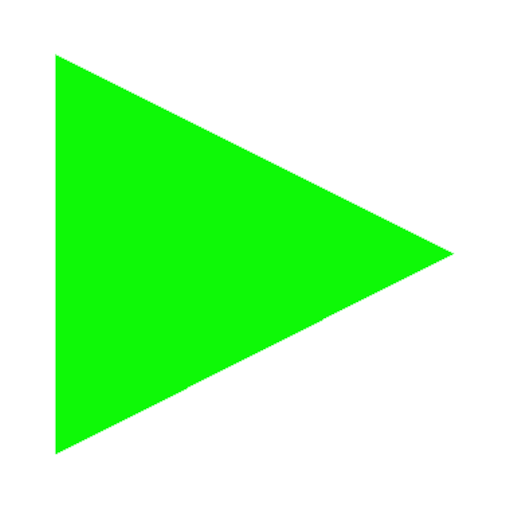
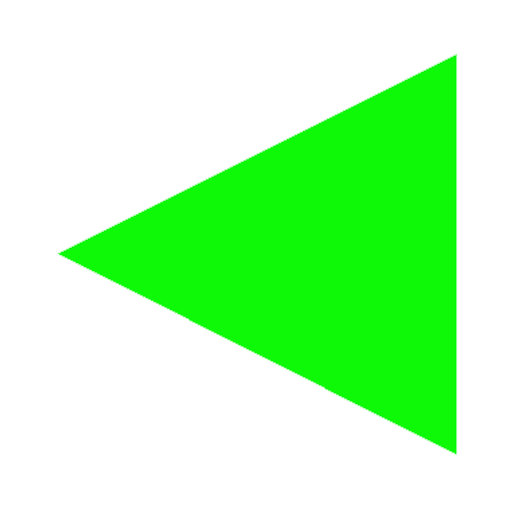
triangles alpha

diff --git a/7_triangles/Frame.cpp b/7_triangles/Frame.cpp
@@ -1,45 +1,73 @@
-#include <iostream>
+#include <cassert>
 #include <gdkmm/pixbuf.h>
 #include <gtkmm/image.h>
 #include "Frame.h"
 
-Frame::Frame() {
+constexpr size_t DEF_SIZE = 96;
+
+Frame::Frame() : triangles(this) {
 
 	set_border_width(10);
 	set_default_size(300, 50);
 	set_title("Triangles");
 
 	Frame::add(box);
-	const size_t DEF_SIZE = 96;
-	auto right_tr = Gdk::Pixbuf::create_from_resource("/res/right.png");
-	right_tr = right_tr->scale_simple(DEF_SIZE, DEF_SIZE, Gdk::INTERP_BILINEAR);
-	auto left_tr = Gdk::Pixbuf::create_from_resource("/res/left.png");
-	left_tr = left_tr->scale_simple(DEF_SIZE, DEF_SIZE, Gdk::INTERP_BILINEAR);
-	auto blank = Gdk::Pixbuf::create_from_resource("/res/blank.svg");
+	left = Gdk::Pixbuf::create_from_resource("/res/left.png");
+	right = Gdk::Pixbuf::create_from_resource("/res/right.png");
+	blank = Gdk::Pixbuf::create_from_resource("/res/blank.svg");
+	left = left->scale_simple(DEF_SIZE, DEF_SIZE, Gdk::INTERP_BILINEAR);
+	right = right->scale_simple(DEF_SIZE, DEF_SIZE, Gdk::INTERP_BILINEAR);
 	blank = blank->scale_simple(DEF_SIZE, DEF_SIZE, Gdk::INTERP_BILINEAR);
 
-	size_t j = 0;
-	for (size_t i = 0; i < TRIANGLES_COUNT; i++, j++) {
-		tr_img[j].set(right_tr);
-		buttons[i].set_icon_widget(tr_img[j]);
+	size_t count = triangles.getCellsCount();
+	buttons.resize(count);
+	images.resize(count);
+	for (size_t i = 0; i < count; i++) {
+		buttons[i].set_icon_widget(images[i]);
 		box.pack_start(buttons[i], Gtk::PACK_SHRINK);
+		buttons[i].signal_clicked().connect(sigc::bind<size_t>(
+				sigc::mem_fun(*this, &Frame::onButtonClick), i));
 	}
 
-	size_t k = 0;
-	for (size_t i = TRIANGLES_COUNT; i < COUNT - TRIANGLES_COUNT; i++, k++) {
-		blank_img[k].set(blank);
-		buttons[i].set_icon_widget(blank_img[k]);
-		box.pack_start(buttons[i], Gtk::PACK_SHRINK);
-	}
-
-	for (size_t i = COUNT - TRIANGLES_COUNT; i < COUNT; i++, j++) {
-		tr_img[j].set(left_tr);
-		buttons[i].set_icon_widget(tr_img[j]);
-		box.pack_start(buttons[i], Gtk::PACK_SHRINK);
-	}
+	triangles.reset();
 
 	box.show();
 	box.show_all_children();
 }
 
-Frame::~Frame() { }
+void Frame::onButtonClick(size_t index) {
+
+	assert (index < buttons.size());
+	triangles.onCellClick(index);
+}
+
+void Frame::placeLeftTriangle(size_t index) {
+
+	assert (index < buttons.size());
+	images[index].set(left);
+}
+
+void Frame::placeBlank(size_t index) {
+
+	assert (index < buttons.size());
+	images[index].set(blank);
+}
+
+void Frame::placeRightTriangle(size_t index) {
+
+	assert (index < buttons.size());
+	images[index].set(right);
+}
+
+void Frame::swapCells(size_t l, size_t r) {
+
+	assert (l < buttons.size());
+	assert (r < buttons.size());
+
+	auto lpix = images[l].get_pixbuf();
+	auto rpix = images[r].get_pixbuf();
+	images[l].set(rpix);
+	images[r].set(lpix);
+}
+
+Frame::~Frame() = default;

diff --git a/7_triangles/Triangles.cpp b/7_triangles/Triangles.cpp
@@ -1,0 +1,60 @@
+#include <cassert>
+#include <algorithm>
+#include "Triangles.h"
+#include "ICellsView.h"
+
+Triangles::Triangles(ICellsView *view_) : view(view_) {
+
+	assert (view);
+	assert (TOTAL_SIZE > TRIANGLES_COUNT);
+
+	std::fill_n(cells, TRIANGLES_COUNT, LEFT);
+	std::fill_n(cells + TRIANGLES_COUNT, TOTAL_SIZE - 2 * TRIANGLES_COUNT, BLANK);
+	std::fill_n(cells + TOTAL_SIZE - TRIANGLES_COUNT, TRIANGLES_COUNT, RIGHT);
+}
+
+void Triangles::reset() {
+
+	for (size_t i = 0; i < TOTAL_SIZE; i++) {
+		switch (cells[i]) {
+			case LEFT:
+				view->placeLeftTriangle(i);
+				break;
+
+			case BLANK:
+				view->placeBlank(i);
+				break;
+
+			case RIGHT:
+				view->placeRightTriangle(i);
+		}
+	}
+}
+
+void Triangles::onCellClick(size_t index) {
+
+	assert (index < TOTAL_SIZE);
+	if (cells[index] == BLANK) return;
+
+	if (cells[index] == LEFT) {
+		if (index + 1 < TOTAL_SIZE && cells[index + 1] == BLANK)
+			swapCells(index, index + 1);
+		else
+			if (index + 2 < TOTAL_SIZE && cells[index + 1] == RIGHT && cells[index + 2] == BLANK)
+				swapCells(index, index + 2);
+	}
+
+	if (cells[index] == RIGHT) {
+		if (index > 0 && cells[index - 1] == BLANK)
+			swapCells(index - 1, index);
+		else
+			if (index > 1 && cells[index - 1] == LEFT && cells[index - 2] == BLANK)
+				swapCells(index - 2, index);
+	}
+}
+
+void Triangles::swapCells(size_t l, size_t r) {
+
+	view->swapCells(l, r);
+	std::swap(cells[l], cells[r]);
+}

diff --git a/7_triangles/Frame.h b/7_triangles/Frame.h
@@ -1,24 +1,33 @@
 #pragma once
+#include <vector>
 #include <gtkmm/window.h>
 #include <gtkmm/toolbutton.h>
 #include <gtkmm/hvbox.h>
+#include "ICellsView.h"
+#include "Triangles.h"
 
-class Frame : public Gtk::Window {
-	static constexpr size_t COUNT = 8;
-	static constexpr size_t TRIANGLES_COUNT = 3;
-	static constexpr size_t BLANKS_COUNT = 2;
-
+class Frame : public Gtk::Window, public ICellsView {
 	Gtk::HBox box;
-	Gtk::Image tr_img[2 * TRIANGLES_COUNT], blank_img[BLANKS_COUNT];
-	Gtk::ToolButton buttons[COUNT];
+	Glib::RefPtr<Gdk::Pixbuf> left, right, blank;
+	std::vector<Gtk::Image> images;
+	std::vector<Gtk::ToolButton> buttons;
+	Triangles triangles;
+
+protected:
+	void onButtonClick(size_t index);
 
 public:
 	Frame();
 
 	Frame(const Frame &obj) = delete;
-	Frame(Frame &&obj) = default;
+	Frame(Frame &&obj) = delete;
 	Frame& operator=(const Frame &obj) = delete;
-	Frame& operator=(Frame &&obj) = default;
+	Frame& operator=(Frame &&obj) = delete;
 
-	virtual ~Frame(); 
+	void placeLeftTriangle(size_t index) override;
+	void placeBlank(size_t index) override;
+	void placeRightTriangle(size_t index) override;
+	void swapCells(size_t l, size_t r) override;
+
+	~Frame() override;
 };

diff --git a/7_triangles/Triangles.h b/7_triangles/Triangles.h
@@ -1,0 +1,36 @@
+#pragma once
+#include <cstddef>
+
+struct ICellsView;
+
+class Triangles {
+	enum CellTypes {
+		LEFT, BLANK, RIGHT
+	};
+	static constexpr size_t TOTAL_SIZE = 7;
+	static constexpr size_t TRIANGLES_COUNT = 3;
+
+	int cells[TOTAL_SIZE]{};
+	ICellsView *view;
+
+	void swapCells(size_t l, size_t r);
+
+public:
+	explicit Triangles(ICellsView *view_);
+
+	Triangles(const Triangles& obj) = delete;
+	Triangles(Triangles&& obj) = delete;
+	Triangles &operator=(const Triangles& obj) = delete;
+	Triangles &operator=(Triangles&& obj) = delete;
+
+	void reset();
+	inline size_t getCellsCount() const;
+	void onCellClick(size_t index);
+};
+
+//*******************************************
+
+size_t Triangles::getCellsCount() const {
+
+	return TOTAL_SIZE;
+}

diff --git a/7_triangles/ICellsView.h b/7_triangles/ICellsView.h
@@ -1,0 +1,11 @@
+#pragma once
+#include <cstddef>
+
+struct ICellsView {
+	virtual void placeLeftTriangle(size_t index) = 0;
+	virtual void placeBlank(size_t index) = 0;
+	virtual void placeRightTriangle(size_t index) = 0;
+	virtual void swapCells(size_t l, size_t r) = 0;
+
+	virtual ~ICellsView() = default;
+};
